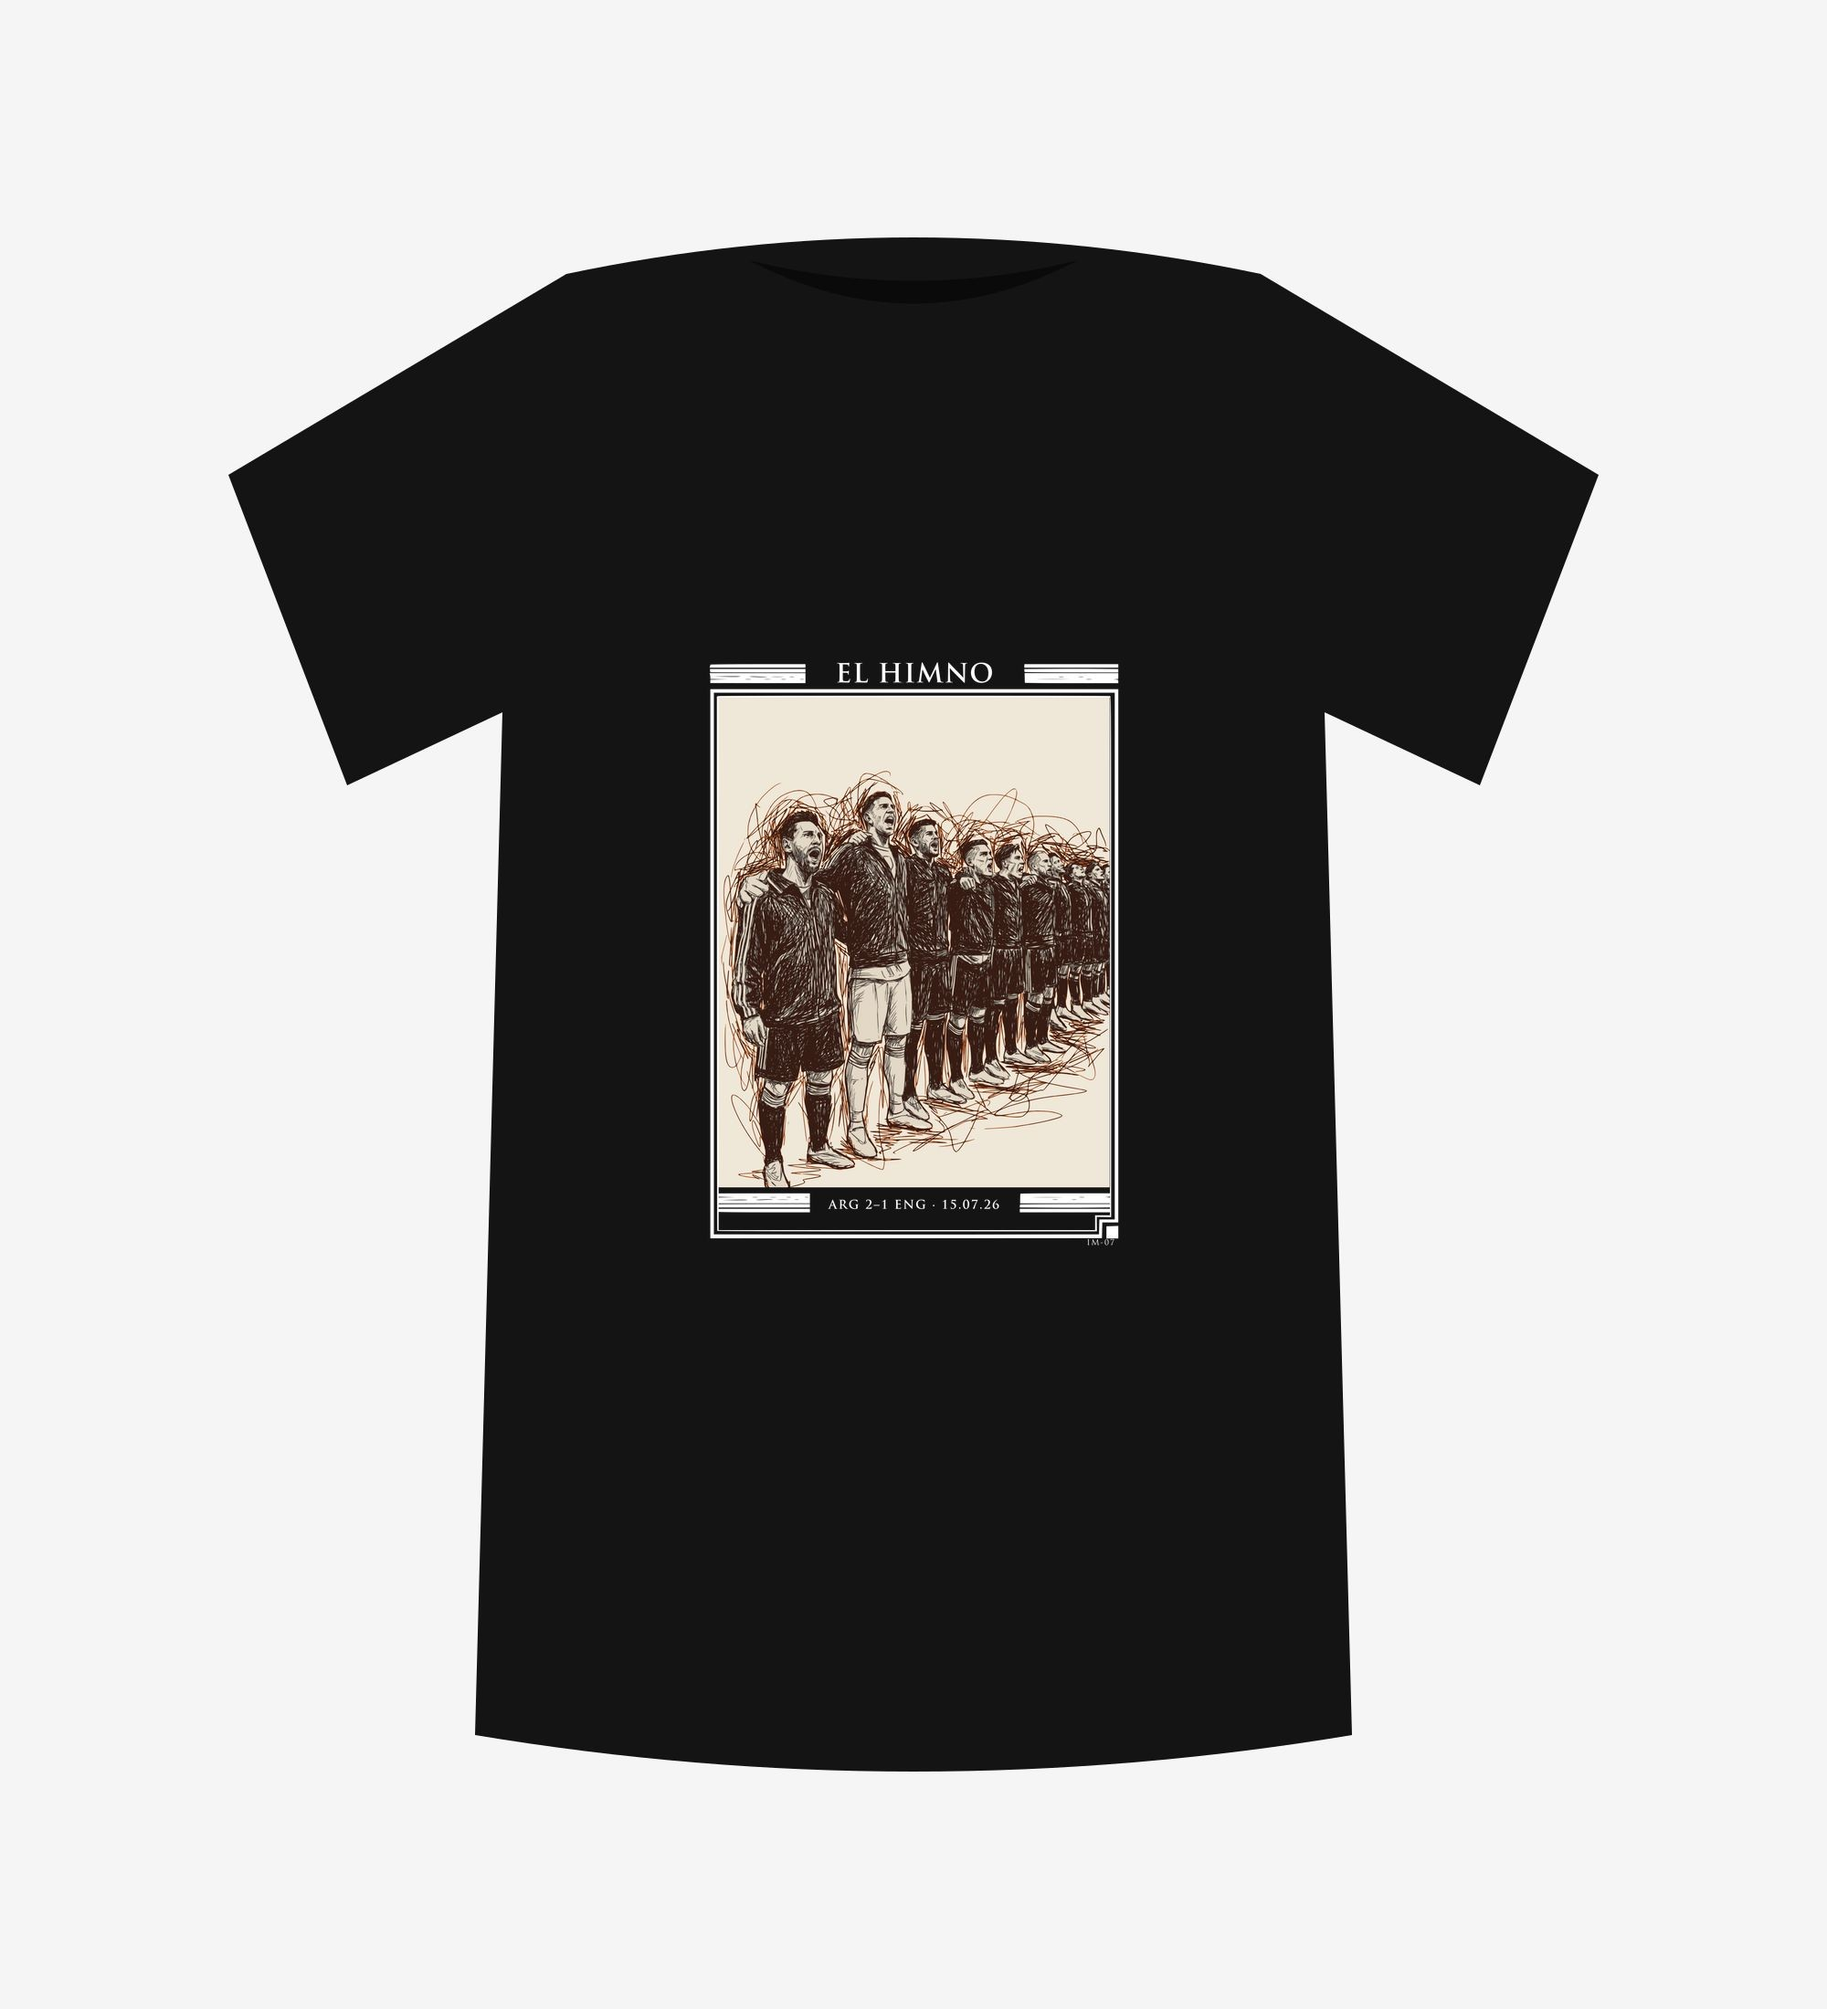
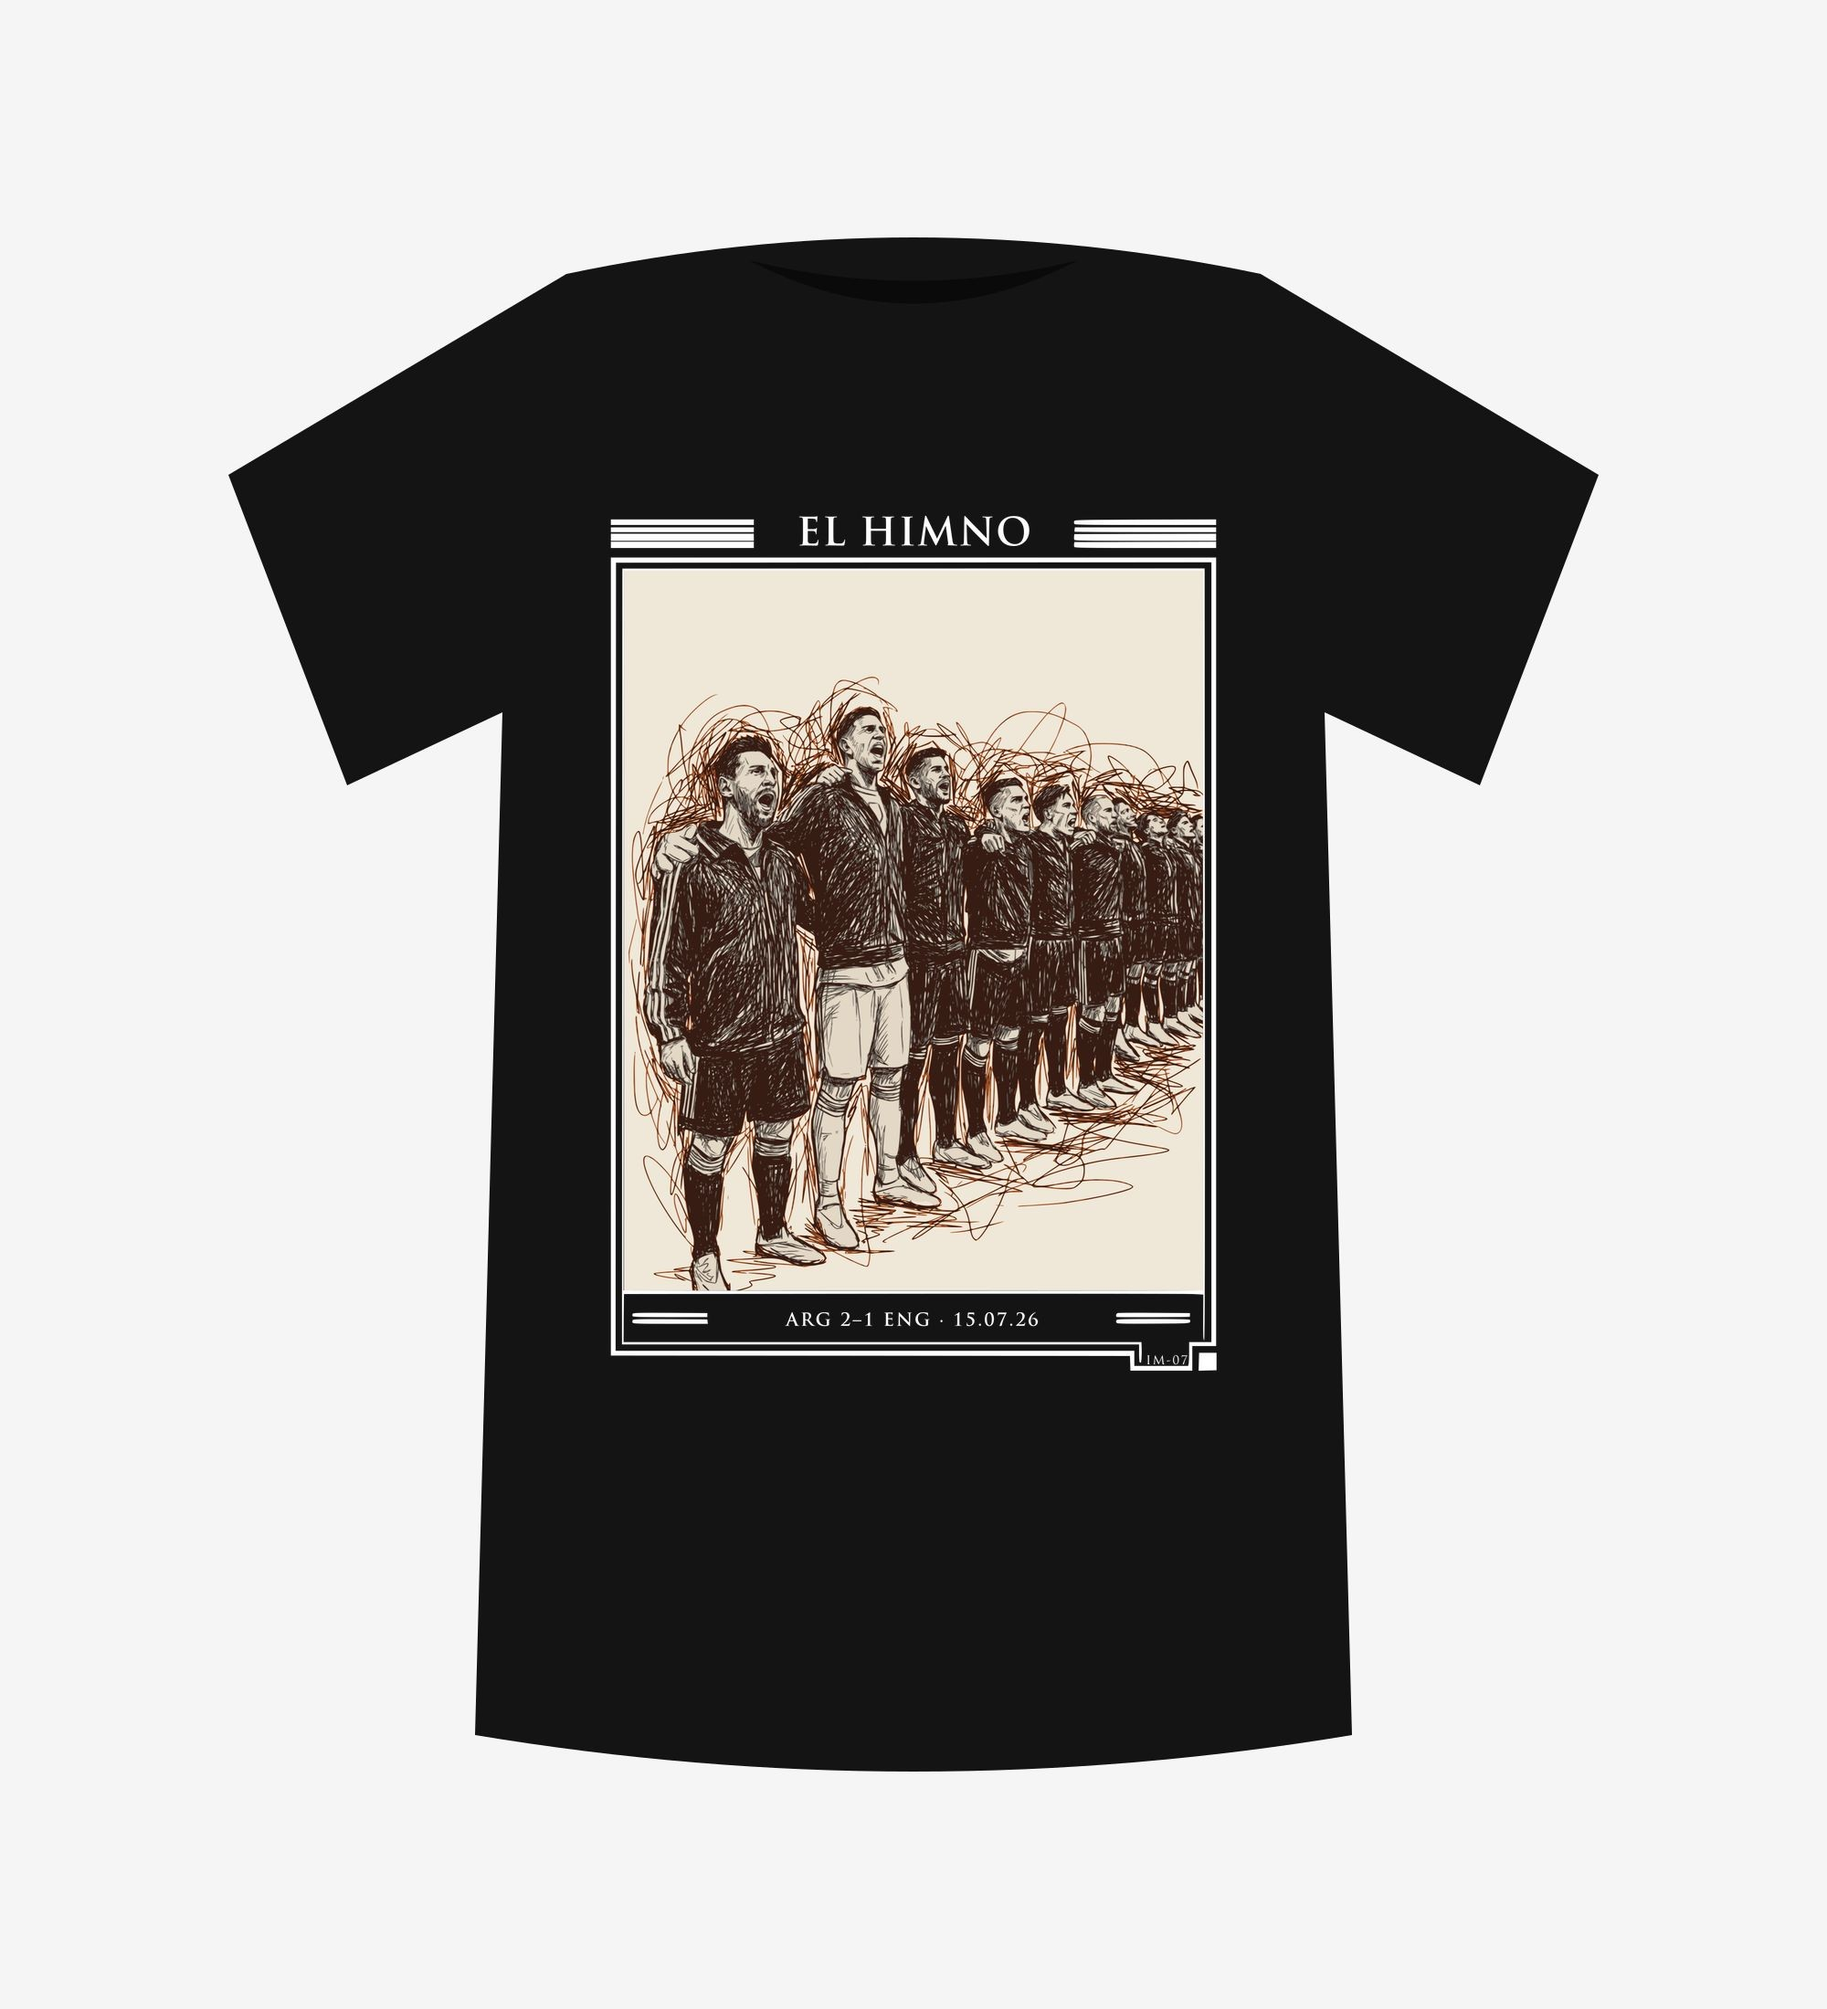
Switch composer to the dedicated drop 02 frame (number tab bottom-right)
The frame concept SVG is the real drop 02 frame, not a rough draft: thin-
margin double borders, four-rule title stacks, short plate rules, and a
stepped tab bottom-right that carries the accession number next to the
notch square. iconic-frame.svg now embeds its white group verbatim
(black backdrop group dropped for print transparency) with Trajan text
slots sized to the new geometry; compose-print.js panel box updated to the
frame opening (viewBox 236 76 782 1098).

Claude-Session: https://claude.ai/code/session_01RNJvk8RfNW994YHes53Vcr

Changed region(s): [[0.31, 0.2473, 0.682, 0.68]]

diff --git a/scripts/compose-print.js b/scripts/compose-print.js
@@ -37,8 +37,8 @@ const FONTS_DIR = path.join(ROOT, 'mockups', 'fonts');
 const ARTWORK_DIR = path.join(ROOT, 'mockups', 'artwork');
 const PRINTS_DIR = path.join(ROOT, 'mockups', 'prints');
 
-const SCALE = 2; // template is 1024x1536; render the print master at 2x
-const PANEL = { x: 183, y: 313, width: 658, height: 824 }; // template px (art stops above the plate band)
+const SCALE = 2; // template is 782x1098; render the print master at 2x
+const PANEL = { x: 262.6, y: 150.5, width: 729, height: 906.5 }; // frame opening, template px
 
 function ensureFonts() {
   const dest = path.join(os.homedir(), '.fonts');
@@ -62,8 +62,8 @@ async function renderArtwork(svgPath, spec) {
   }
   const buf = Buffer.from(svg);
   const meta = await sharp(buf).metadata();
-  const boxW = PANEL.width * SCALE;
-  const boxH = PANEL.height * SCALE;
+  const boxW = Math.round(PANEL.width * SCALE);
+  const boxH = Math.round(PANEL.height * SCALE);
   // Render dense enough that cover-cropping never upscales.
   const density = 72 * Math.max(boxW / meta.width, boxH / meta.height);
   return sharp(buf, { density: Math.min(density, 2400) })

diff --git a/mockups/README.md b/mockups/README.md
@@ -54,11 +54,12 @@ This is a one-time job per template.
 
 Drop 02 designs are **composed** before mounting: raw illustration + three
 strings → the framed print with title bar, bottom plate rail and accession
-number, built from the drop 01 frame geometry
-(`frames/iconic-frame.svg`, extracted verbatim from
-`reference/drop-01/the-116th-05.svg`; the plate rail is the title-bar rules
-mirrored into the frame bottom). Text is set live in Trajan Pro
-(`fonts/`), so no per-design vectorized titles are needed.
+number. The frame is the drop 02 vector (`frames/iconic-frame.svg`, white
+group taken verbatim from `reference/frame-concept.svg` — thin-margin
+borders, short plate rules, and the stepped number tab bottom-right; the
+black backdrop group is dropped so the print stays transparent). Text is
+set live in Trajan Pro (`fonts/`), so no per-design vectorized titles are
+needed.
 
 Drop a raw SVG plus a sidecar `.json` with the same basename:
 
